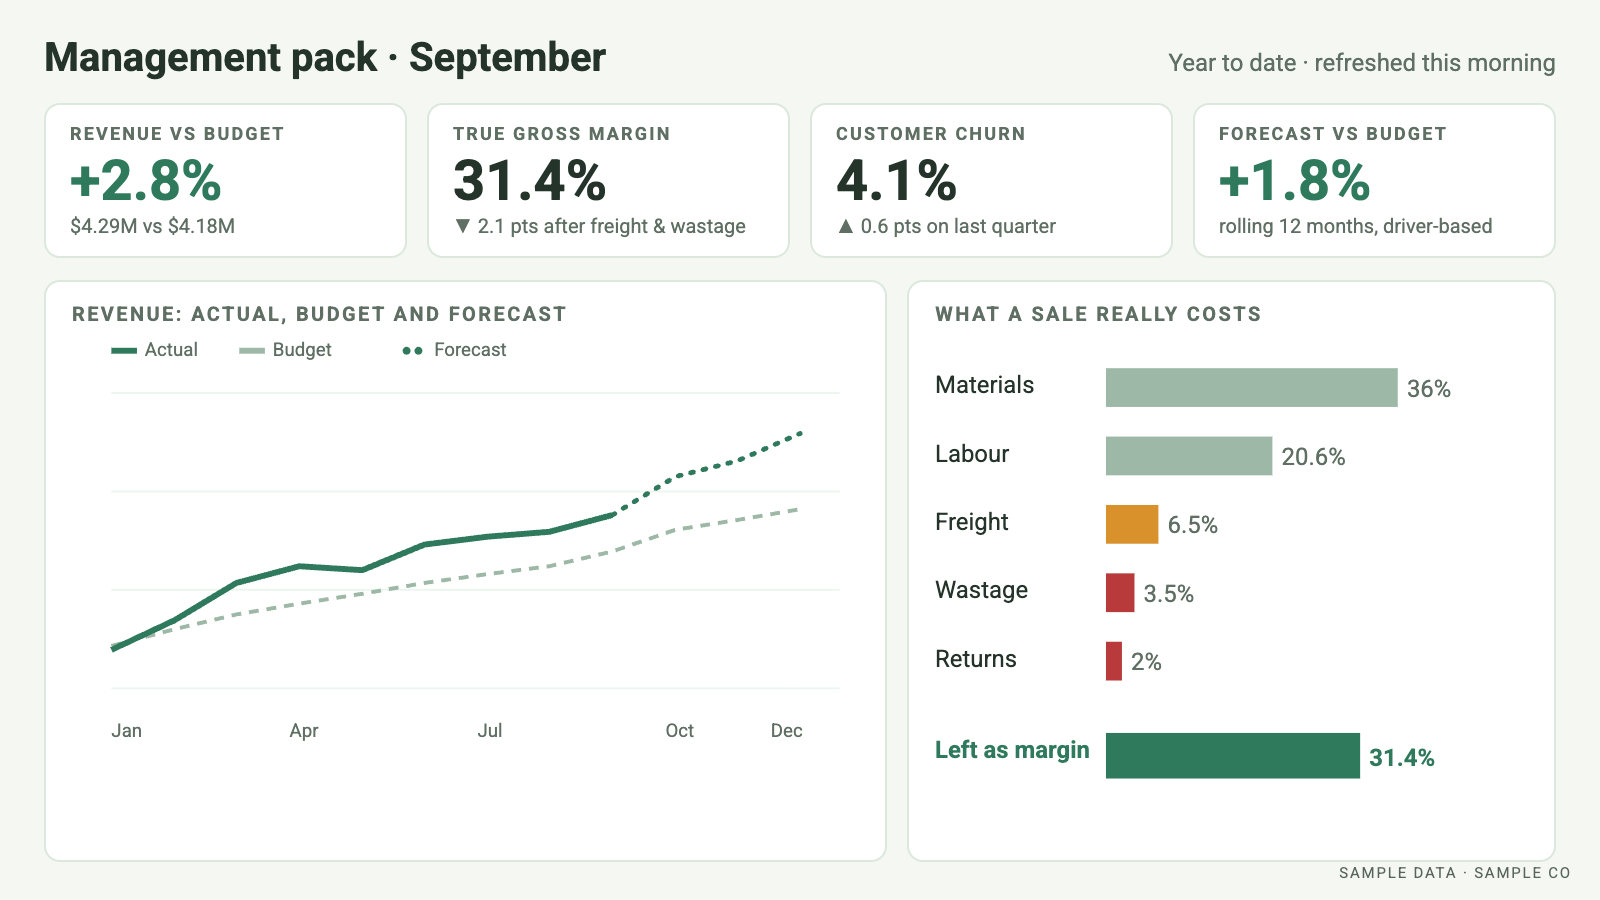
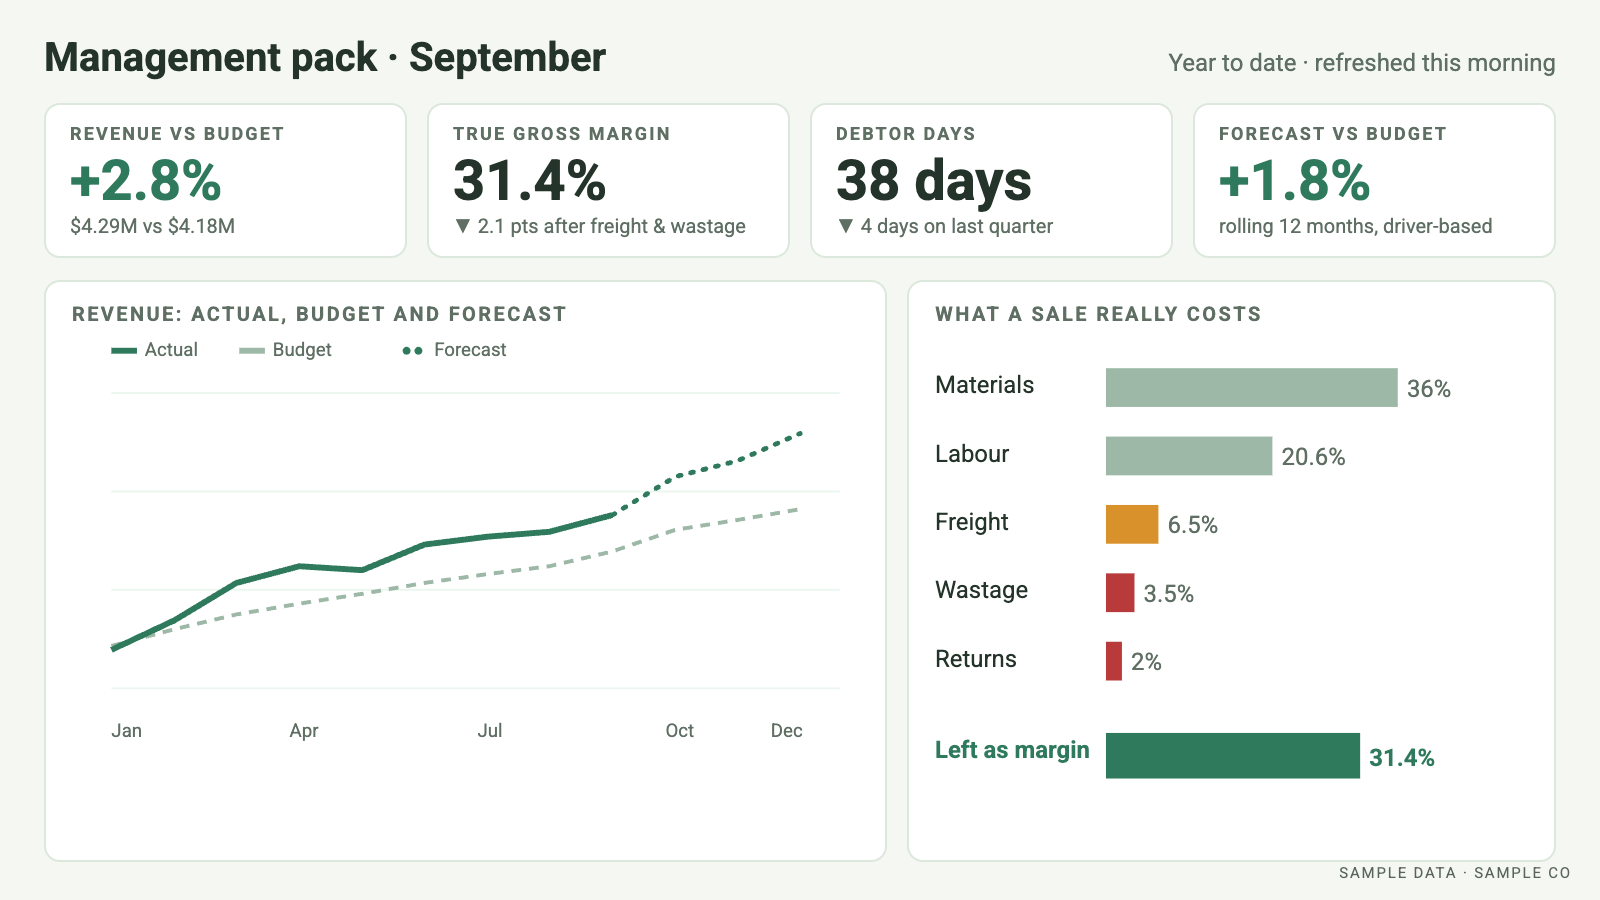
C4, C5, W1, W2, W4, D9/form, W7, W8: stage 1 content fixes
- C4: not-for-profit example TBC chip removed (orange TO DO box kept)
- C5: prices on: $110 an hour, $800 a day (Fixed quote per engagement / Fixed term / Monthly retainer)
- W1: og and twitter titles now match the home H1
- W2: 'How long' and first-30-days drafts confirmed; guide line added; TO DO box removed
- W4: 'Monthly reporting, done for me' (value 'monthly' unchanged, so prefilled links still work)
- Form: Organisation, Job title and Phone required; Australian phone check (spaces, dashes, +61, 13/1300/1800)
- W7: boardroom mock-up shows debtor days instead of churn; re-rendered; alt text and caption updated
- W8: QAD, TechnologyOne and Elite 3E removed; row renamed 'CRM and payroll'

Changed region(s): [[0.5, 0.1244, 0.6562, 0.28]]

diff --git a/services.html b/services.html
@@ -72,8 +72,8 @@
 
     <main id="main">
       <!-- THE OFFER: three ways to work together. A client can come in at any of them and move between them.
-           PRICES are switched off: they show "Talk to me about pricing" until
-           SHOW_PRICES is set to true in script.js (search "PRICES"). -->
+           PRICES are set in script.js (search "PRICES"): $110 an hour, $800 a day. Without JavaScript
+           each shows "Talk to me about pricing". -->
       <section id="offer" class="section page-top section-alt">
         <div class="container">
           <div class="section-heading">
@@ -83,15 +83,15 @@
           </div>
 
           <!-- THE THREE RUNGS, in depth. The home page has the one-line version; this is what each one includes.
-               Timeframes are drafts for Nathan to confirm (see the TO DO note). -->
+               The "How long" lines are a guide; the note under the cards says so. -->
           <div class="rung-detail">
             <article class="rung-card">
               <p class="rung-card-step"><span class="rung-step">1</span> Build it</p>
               <h2>Set up and hand over</h2>
-              <p class="rung-price"><span data-price="setup">Talk to me about pricing</span><small>One-off fixed fee</small></p>
+              <p class="rung-price"><span data-price="setup">Talk to me about pricing</span><small>Fixed quote per engagement</small></p>
               <dl>
                 <div><dt>What's included</dt><dd>The numbers that matter to you, connected to the spreadsheets and systems you already use, checked against your accounts, and refreshed daily where your data allows, so you can drill from the month to the week or the day.</dd></div>
-                <div><dt>How long</dt><dd class="draft">About four weeks from kick-off to handover.</dd></div>
+                <div><dt>How long</dt><dd>About four weeks from kick-off to handover.</dd></div>
                 <div><dt>What you keep</dt><dd>The working reports, a one-page guide to each number (how it's worked out and where it comes from), and a training session for the people who'll use them.</dd></div>
               </dl>
             </article>
@@ -101,7 +101,7 @@
               <p class="rung-price"><span data-price="bedding">Talk to me about pricing</span><small>Fixed term</small></p>
               <dl>
                 <div><dt>What's included</dt><dd>A review with you after each month-end: what the numbers say, what's changed, and fixes as questions come up. If the reporting isn't built yet, setup comes first.</dd></div>
-                <div><dt>How long</dt><dd class="draft">Three months alongside you.</dd></div>
+                <div><dt>How long</dt><dd>Three months alongside you.</dd></div>
                 <div><dt>What you keep</dt><dd>A month-end routine your team runs without me, and reports they trust.</dd></div>
               </dl>
             </article>
@@ -111,12 +111,12 @@
               <p class="rung-price"><span data-price="monthly">Talk to me about pricing</span><small>Monthly retainer</small></p>
               <dl>
                 <div><dt>What's included</dt><dd>I run your month-end reporting and the review that goes with it. Your numbers arrive on the schedule we agree, with what's changed and what to look at.</dd></div>
-                <div><dt>How long</dt><dd class="draft">Month to month.</dd></div>
+                <div><dt>How long</dt><dd>Month to month.</dd></div>
                 <div><dt>What you keep</dt><dd>Everything, always: the reports and data stay yours, and nothing is locked to me.</dd></div>
               </dl>
             </article>
           </div>
-          <div class="devnote devnote--inline" role="note">TO DO (Nathan): confirm the "How long" lines (in italics) and the first 30 days below. They're drafts.</div>
+          <p class="timing-note">Every engagement is different: these timings are a guide, and I'll confirm yours in the quote.</p>
 
           <!-- Clients without usable data: help them start capturing it -->
           <div class="no-data">
@@ -158,7 +158,7 @@
         </div>
       </section>
 
-      <!-- THE FIRST 30 DAYS: drafts for Nathan to finish (see the TO DO note above). -->
+      <!-- THE FIRST 30 DAYS: a guide, like the "How long" lines. -->
       <section id="first-30-days" class="section section-alt">
         <div class="container">
           <div class="section-heading">
@@ -170,17 +170,17 @@
             <li class="step-card">
               <p class="step-when">Week 1</p>
               <h3>Kick-off</h3>
-              <p class="draft">An hour together on the questions you want answered, then read-only access to your spreadsheets and systems. I map where each number will come from.</p>
+              <p>An hour together on the questions you want answered, then read-only access to your spreadsheets and systems. I map where each number will come from.</p>
             </li>
             <li class="step-card">
               <p class="step-when">Week 2</p>
               <h3>First numbers</h3>
-              <p class="draft">You see the first working version on your own data, checked against your accounts. We agree the definitions: what counts as a sale, a job, an on-time delivery.</p>
+              <p>You see the first working version on your own data, checked against your accounts. We agree the definitions: what counts as a sale, a job, an on-time delivery.</p>
             </li>
             <li class="step-card">
               <p class="step-when">Week 4</p>
               <h3>Handover</h3>
-              <p class="draft">The finished reports, refreshed from the source, with a guide to every number and a training session for your team.</p>
+              <p>The finished reports, refreshed from the source, with a guide to every number and a training session for your team.</p>
             </li>
           </ol>
 

diff --git a/contact.html b/contact.html
@@ -4,7 +4,7 @@
     <meta charset="UTF-8" />
     <meta name="viewport" content="width=device-width, initial-scale=1.0" />
     <title>Contact | The Fourth Sheet</title>
-    <meta name="description" content="Send Nathan your details, ask for standardised reporting on your schedule, or book a free 20-minute numbers check." />
+    <meta name="description" content="Send Nathan your details, ask for monthly reporting done for you, or book a free 20-minute numbers check." />
 
     <!-- Favicon: SVG for modern browsers, PNG fallbacks for older ones / iOS. -->
     <link rel="icon" href="assets/brand/mark-4th.svg?v=roboto" type="image/svg+xml" />
@@ -84,7 +84,7 @@
               <p class="contact-request" id="contact-request" hidden></p>
               <fieldset class="contact-topic">
                 <legend>What would you like?</legend>
-                <label><input type="radio" name="topic" value="monthly" /> Standardised reporting, given on your schedule</label>
+                <label><input type="radio" name="topic" value="monthly" /> Monthly reporting, done for me</label>
                 <label><input type="radio" name="topic" value="numbers-check" checked /> A free 20-minute numbers check</label>
                 <label><input type="radio" name="topic" value="other" /> Something else</label>
               </fieldset>
@@ -93,11 +93,11 @@
                 <label class="field"><span>Email</span><input type="email" name="email" autocomplete="email" required /></label>
               </div>
               <div class="field-row">
-                <label class="field"><span>Job title</span><input type="text" name="job_title" autocomplete="organization-title" /></label>
-                <label class="field"><span>Organisation <small>(optional)</small></span><input type="text" name="organisation" autocomplete="organization" /></label>
+                <label class="field"><span>Job title</span><input type="text" name="job_title" autocomplete="organization-title" required /></label>
+                <label class="field"><span>Organisation</span><input type="text" name="organisation" autocomplete="organization" required /></label>
               </div>
               <div class="field-row">
-                <label class="field"><span>Phone</span><input type="tel" name="phone" autocomplete="tel" /></label>
+                <label class="field"><span>Phone</span><input type="tel" name="phone" autocomplete="tel" inputmode="tel" required aria-describedby="phone-hint" /><small class="field-hint" id="phone-hint">An Australian mobile or landline number</small></label>
               </div>
               <label class="field"><span>What would you like your numbers to tell you? <small>(optional)</small></span><textarea name="message" rows="4"></textarea></label>
               <input type="hidden" name="report" /><input type="hidden" name="period" /><input type="hidden" name="view" />

diff --git a/script.js b/script.js
@@ -433,11 +433,20 @@ function setupContactForm() {
   }
   if (q.get('topic') === 'monthly' && q.get('report')) {
     const req = document.getElementById('contact-request');
-    req.innerHTML = `You're asking for <strong>${esc(q.get('report'))}</strong>${q.get('view') ? ` (${esc(q.get('view'))})` : ''} as standardised reporting, given on your schedule${q.get('period') ? `, starting from ${esc(q.get('period'))}` : ''}.`;
+    req.innerHTML = `You're asking for <strong>${esc(q.get('report'))}</strong>${q.get('view') ? ` (${esc(q.get('view'))})` : ''} as monthly reporting, done for you${q.get('period') ? `, starting from ${esc(q.get('period'))}` : ''}.`;
     req.hidden = false;
   }
+  // phone: an Australian number, spaces, dashes and brackets allowed (mobile, landline, 13/1300/1800, or +61)
+  const phone = form.elements.phone;
+  const checkPhone = () => {
+    const d = phone.value.replace(/[\s\-().]/g, '');
+    const ok = !d || /^(?:\+?61|0)[2-478]\d{8}$/.test(d) || /^1[38]00\d{6}$/.test(d) || /^13\d{4}$/.test(d);
+    phone.setCustomValidity(ok ? '' : 'Please enter an Australian mobile or landline number.');
+  };
+  if (phone) { phone.addEventListener('input', checkPhone); phone.addEventListener('blur', checkPhone); }
   form.addEventListener('submit', (e) => {
     e.preventDefault();
+    if (phone) checkPhone();
     if (!form.reportValidity()) return;
     const action = form.getAttribute('action') || '';
     if (!/^https?:\/\//.test(action)) {                    // still the [[FORM_ENDPOINT]] placeholder
@@ -505,18 +514,17 @@ function setupGameSlot() {
 }
 
 /* ---------------------------------------------------------------------------
-   PRICES — switched OFF by default.
+   PRICES — base rate $110 an hour; day rate $800 (7 hours × $110 = $770, rounded up).
 
-   Each price on the page shows "Talk to me about pricing" (that text is in
-   index.html, so it's what visitors see even without JavaScript). To show
-   real prices: fill in PRICES below, then set SHOW_PRICES = true.
+   Each price on the page shows "Talk to me about pricing" in the HTML (what visitors see
+   without JavaScript); with SHOW_PRICES on, the PRICES text replaces it.
    A price still written like [[TOKEN]] is never shown.
 --------------------------------------------------------------------------- */
-const SHOW_PRICES = false;
+const SHOW_PRICES = true;
 const PRICES = {
-  setup: '[[PRICE_SETUP]]',     // e.g. 'From $3,500'
-  bedding: '[[PRICE_BEDDING]]', // e.g. '$5,500 over 3 months'
-  monthly: '[[PRICE_MONTHLY]]', // e.g. 'From $900 a month'
+  setup: 'From $110 an hour · $800 a day',
+  bedding: '$110 an hour · $800 a day',
+  monthly: '$110 an hour · $800 a day',
 };
 
 function applyPrices() {

diff --git a/index.html b/index.html
@@ -19,7 +19,7 @@
     <meta property="og:type" content="website" />
     <meta property="og:site_name" content="The Fourth Sheet" />
     <meta property="og:locale" content="en_AU" />
-    <meta property="og:title" content="The Fourth Sheet | The numbers underneath" />
+    <meta property="og:title" content="Your accountant gives you three sheets. I give you the fourth." />
     <meta property="og:description" content="Your accountant gives you three sheets. I give you the fourth: the numbers underneath, for SMEs and not-for-profits." />
     <meta property="og:url" content="https://www.thefourthsheet.com.au/" />
     <meta property="og:image" content="https://www.thefourthsheet.com.au/assets/brand/og-image.png" />
@@ -27,7 +27,7 @@
     <meta property="og:image:height" content="630" />
     <meta property="og:image:alt" content="The Fourth Sheet: your accountant gives you three sheets. I give you the fourth." />
     <meta name="twitter:card" content="summary_large_image" />
-    <meta name="twitter:title" content="The Fourth Sheet | The numbers underneath" />
+    <meta name="twitter:title" content="Your accountant gives you three sheets. I give you the fourth." />
     <meta name="twitter:description" content="Your accountant gives you three sheets. I give you the fourth: the numbers underneath, for SMEs and not-for-profits." />
     <meta name="twitter:image" content="https://www.thefourthsheet.com.au/assets/brand/og-image.png" />
 
@@ -240,8 +240,8 @@
       </section>
 
       <!-- THE OFFER: three ways to work together. A client can come in at any of them and move between them.
-           PRICES are switched off: they show "Talk to me about pricing" until
-           SHOW_PRICES is set to true in script.js (search "PRICES"). -->
+           PRICES are set in script.js (search "PRICES"): $110 an hour, $800 a day. Without JavaScript
+           each shows "Talk to me about pricing". -->
       <section id="offer" class="section section-alt">
         <div class="container">
           <div class="section-heading">
@@ -255,7 +255,7 @@
               <span class="rung-step">1</span>
               <h3>Set up and hand over</h3>
               <p>I build the system, train your team and leave it running.</p>
-              <p class="rung-price"><span data-price="setup"></span><small>One-off fixed fee</small></p>
+              <p class="rung-price"><span data-price="setup"></span><small>Fixed quote per engagement</small></p>
             </li>
             <li class="rung">
               <span class="rung-step">2</span>

diff --git a/examples.html b/examples.html
@@ -114,9 +114,9 @@
               <a href="media/mockups/display-boardroom.png" class="display-link">
                 
                 <img src="media/mockups/display-boardroom.png" width="1600" height="900" loading="lazy"
-                  alt="Sample boardroom screen: revenue against budget and forecast, true gross margin, customer churn, and a breakdown of what a sale really costs." />
+                  alt="Sample boardroom screen: revenue against budget and forecast, true gross margin, debtor days, and a breakdown of what a sale really costs." />
               </a>
-              <figcaption><strong>In the boardroom.</strong> The management pack: revenue against budget, true gross margin, churn and a driver-based forecast.</figcaption>
+              <figcaption><strong>In the boardroom.</strong> The management pack: revenue against budget, true gross margin, debtor days and a driver-based forecast.</figcaption>
             </figure>
           </div>
           <p class="display-note">Sample data. Click or tap an image to enlarge it.</p>
@@ -249,12 +249,9 @@
               </ul>
             </div>
             <div class="tool-group">
-              <h3 class="tool-group-name">ERP, CRM and payroll</h3>
+              <h3 class="tool-group-name">CRM and payroll</h3>
               <ul class="tool-list">
-                <li class="tool">QAD</li>
-                <li class="tool">TechnologyOne</li>
                 <li class="tool">Salesforce</li>
-                <li class="tool">Elite 3E (legal)</li>
                 <li class="tool">Employment Hero</li>
               </ul>
             </div>

diff --git a/styles.css b/styles.css
@@ -843,6 +843,7 @@ button.hero-sheets:focus-visible { outline: 3px solid var(--accent); outline-off
 .rung-card dt { font-size: var(--fs-xs); font-weight: 700; text-transform: uppercase; letter-spacing: 0.08em; color: var(--muted); }
 .rung-card dd { margin: var(--sp-1) 0 0; font-size: var(--fs-md); }
 .draft { font-style: italic; }
+.timing-note { margin: var(--sp-4) 0 0; color: var(--muted); font-size: var(--fs-sm); }
 .steps-grid--weeks { list-style: none; padding: 0; margin: 0 0 var(--sp-5); }
 .step-when { margin: 0 0 var(--sp-1); color: var(--accent); font-size: var(--fs-sm); font-weight: 700; }
 .info-card--link { display: flex; flex-direction: column; color: inherit; text-decoration: none; transition: border-color 0.15s, box-shadow 0.15s; }
@@ -1272,3 +1273,4 @@ body.intro-active .hero-sheets img { visibility: hidden; }
 .dash-period select { min-height: 36px; padding: 0 var(--sp-2); border: 1px solid var(--border); border-radius: var(--r-sm); background: var(--paper); font: inherit; font-size: var(--fs-sm); color: var(--text); }
 @media (pointer: coarse) { .dash-period select { min-height: 44px; } }
 .dash-unavailable { margin: var(--sp-4) 0; padding: var(--sp-3) var(--sp-4); background: var(--accent-soft); border-radius: var(--r-sm); font-size: var(--fs-sm); color: var(--text); }
+.field-hint { font-size: var(--fs-xs); }

diff --git a/tools/mockups/boardroom.html b/tools/mockups/boardroom.html
@@ -17,7 +17,7 @@ body{background:#f4f7f2;color:#25342a;padding:34px 44px}
 <div class="kpis">
  <div class="kpi"><h2>Revenue vs budget</h2><b class="up">+2.8%</b><small>$4.29M vs $4.18M</small></div>
  <div class="kpi"><h2>True gross margin</h2><b>31.4%</b><small class="down">▼ 2.1 pts after freight &amp; wastage</small></div>
- <div class="kpi"><h2>Customer churn</h2><b>4.1%</b><small class="down">▲ 0.6 pts on last quarter</small></div>
+ <div class="kpi"><h2>Debtor days</h2><b>38 days</b><small class="up">▼ 4 days on last quarter</small></div>
  <div class="kpi"><h2>Forecast vs budget</h2><b class="up">+1.8%</b><small>rolling 12 months, driver-based</small></div>
 </div>
 <div class="charts">

diff --git a/not-for-profit.html b/not-for-profit.html
@@ -95,7 +95,6 @@
 
           <p class="no-data-line"><strong>No data to hand over yet?</strong> I'll help you set up the processes and frameworks to start capturing it, then build the reporting on top.</p>
           <div class="audience-foot">
-            <p class="proof"><span class="proof-label">Example</span> <span class="tbc" data-placeholder="[[NFP_EXAMPLE]]">Not-for-profit example TBC</span></p>
             <a class="button primary" href="#contact" data-placeholder="[[BOOKING_URL]]">Book a free 20-minute numbers check</a>
           </div>
           <span class="devnote devnote--inline" role="note">TO DO: not-for-profit example (waiting on how to reference it)</span>
